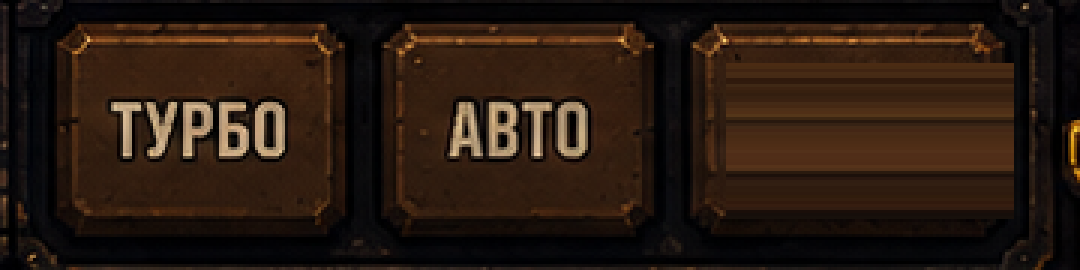
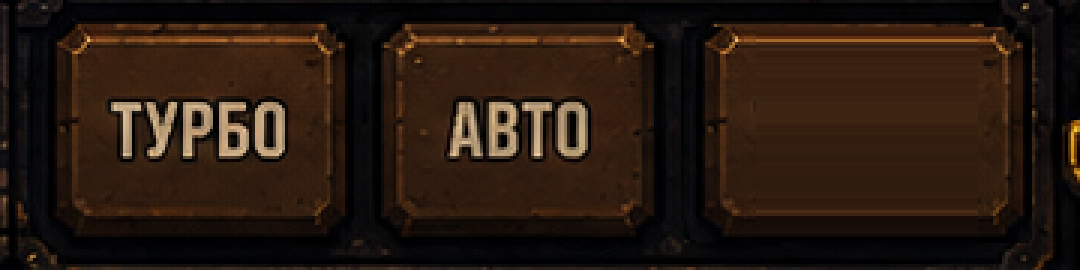
Кнопка «МЕНЮ» из фактуры соседней и подсветка жетонов по контуру
Кнопка пересобрана из «ТУРБО»: с неё переносятся оба края вместе с рамкой,
скруглениями и заклёпками, а середина заполняется растянутой чистой колонкой.
Растяжение само по себе давало ровную поверхность без рамки — кнопка выглядела
вставленным прямоугольником. Ширина переносимых кусков ограничена чистым полем
донора: захватишь пару пикселей его надписи — на новой кнопке появится штрих.

Подсветка BELT COLLECTION: заливка всего слота закрашивала нарисованный жетон
жёлтым пятном, и его переставало быть видно. Осталось свечение по контуру
и мягкий ореол наружу — жетон виден, подсветка не спорит с ним.

Changed region(s): [[0.6417, 0.0889, 0.9472, 0.8296], [0.7333, 0.0889, 0.7944, 0.1778]]

diff --git a/src/game/BeltStrip.ts b/src/game/BeltStrip.ts
@@ -21,15 +21,27 @@ export class BeltStrip {
   constructor() {
     for (const [x, y, w, h] of BELT_SLOTS) {
       const light = new Graphics();
-      // Несколько рамок с падающей прозрачностью дают мягкий ореол
-      // без фильтров, которые заметно дороже на слабых машинах.
-      for (let i = 3; i >= 1; i--) {
-        light
-          .roundRect(-i * 3, -i * 3, w + i * 6, h + i * 6, 8 + i * 2)
-          .stroke({ color: COLOR.gold, width: 3, alpha: 0.18 });
+
+      // Свечение только по контуру и наружу. Заливка всего слота, которая
+      // стояла здесь раньше, закрашивала нарисованный жетон жёлтым пятном —
+      // сам жетон переставало быть видно, а подсветка выглядела грубой.
+      const bands = 7;
+      const reach = 9;
+      for (let i = bands; i >= 1; i--) {
+        const t = i / bands;
+        const spread = reach * t;
+        light.roundRect(-spread, -spread, w + spread * 2, h + spread * 2, 7 + spread).stroke({
+          color: COLOR.gold,
+          width: 2,
+          alpha: 0.16 * (1 - t) ** 1.2,
+        });
       }
-      light.roundRect(0, 0, w, h, 7).fill({ color: COLOR.gold, alpha: 0.3 });
-      light.position.set(x, y);
+      light.roundRect(0.5, 0.5, w - 1, h - 1, 6).stroke({
+        color: COLOR.gold,
+        width: 2,
+        alpha: 0.85,
+      });
+
       light.pivot.set(w / 2, h / 2);
       light.position.set(x + w / 2, y + h / 2);
       light.alpha = 0;

diff --git a/tools/prep_background.py b/tools/prep_background.py
@@ -53,6 +53,13 @@ CLONE = [
     (792, 740, 828, 740, 38, 38),
     (792, 740, 866, 740, 38, 38),
     (792, 740, 900, 740, 38, 38),
+    # Кнопка «ПРАВИЛА» пересобирается из кнопки «ТУРБО»: с неё берутся оба края
+    # вместе с рамкой, скруглениями и заклёпками. Своими руками такую фактуру
+    # не нарисовать, а без рамки кнопка выглядела вставленным прямоугольником.
+    # Ширина каждого куска ограничена чистым полем кнопки-донора: захватишь
+    # хоть пару пикселей её надписи — на новой кнопке появится вертикальный штрих.
+    (962, 704, 1178, 704, 24, 72),   # левый край с рамкой, до буквы «Т»
+    (1050, 704, 1276, 704, 18, 72),  # правый край с рамкой, после буквы «О»
 ]
 
 # Растянуть колонку пикселей по горизонтали: (откуда x, y1, y2, куда x1, куда x2).
@@ -62,9 +69,10 @@ CLONE = [
 # она превращается в штрих-код. Растяжение одной колонки сохраняет вертикальный
 # градиент и не тащит за собой ничего лишнего.
 STRETCH = [
-    # Кнопка «ПРАВИЛА»: убираем надпись, чтобы написать поверх «МЕНЮ».
-    # Источник — чистая колонка внутри той же кнопки, левее первой буквы.
-    (1187, 716, 768, 1192, 1288),
+    # Середина кнопки «МЕНЮ» между перенесёнными краями. Источник — чистая
+    # колонка кнопки «ТУРБО» между её рамкой и первой буквой: она несёт
+    # правильный вертикальный градиент и не задевает текст.
+    (980, 704, 776, 1202, 1276),
 ]
 
 # Фигура маскота. Снизу обрезано по ногам, чтобы не захватить тумбу с маслом,
